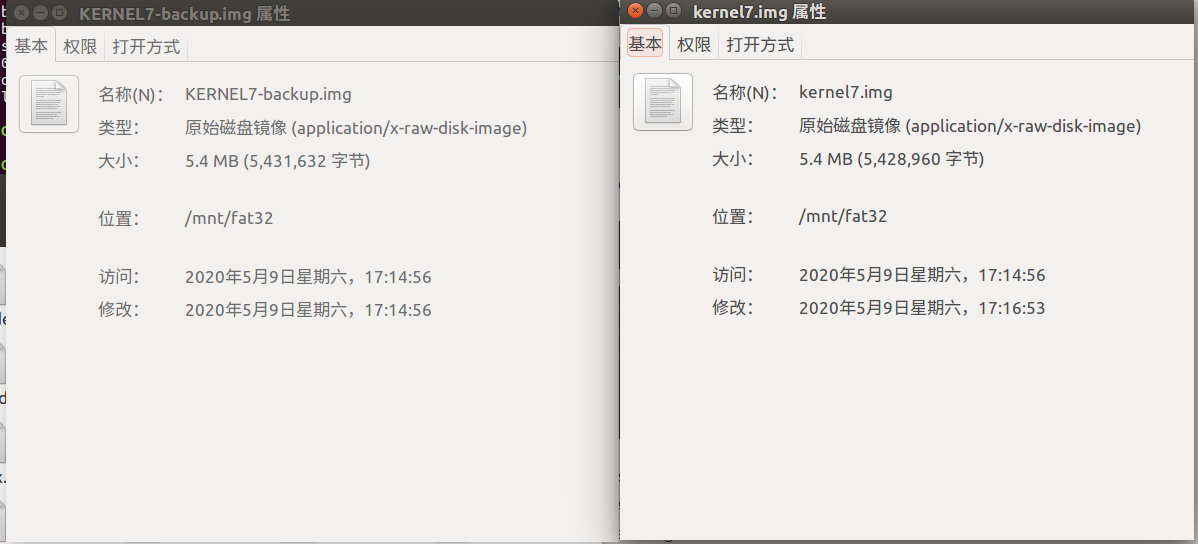
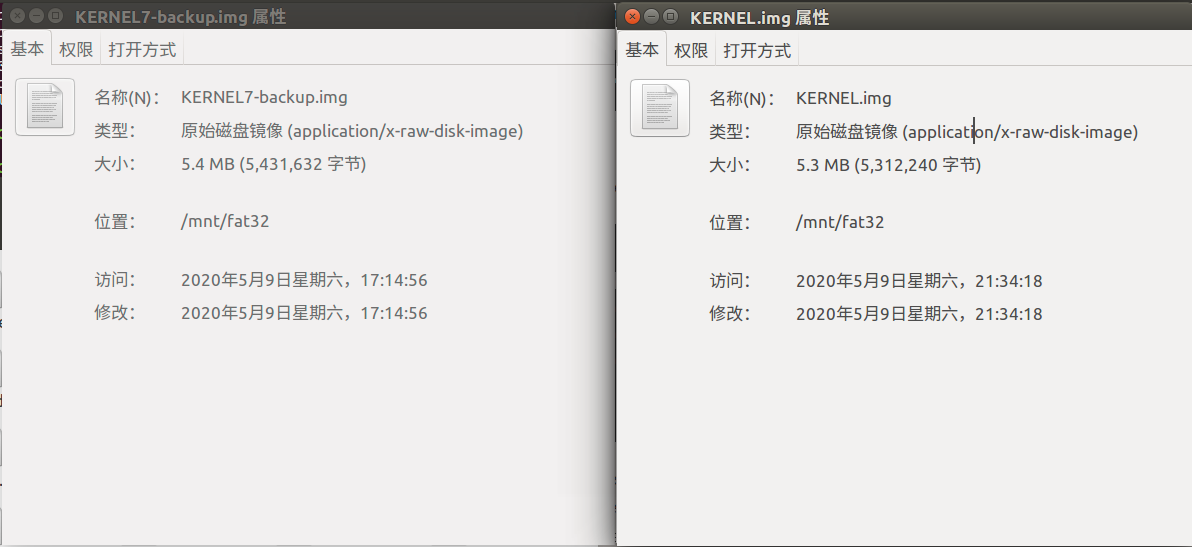
experiment 5

diff --git a/experiment_5/experiment5-构建目标系统.md b/experiment_5/experiment5-构建目标系统.md
@@ -76,32 +76,30 @@
 
 | 位置 | 内容 | 备注 | 操作 |
 | :-: | :-: | :-: | :-: |
--|NVME Support |NVME协议SSD支持|Y-> N
+-|SCSI device support | SCSI device support | SCSI设备支持|Y-> N
 -|Multiple devices driver support (RAID and LVM) |磁盘阵列支持 | Y -> N |
-|Network deivce support | PPP (point-to-point protocol) support| 点对点协议支持| Y -> N
 |Network deivce support|ATM drivers| ATM协议 用于路由交换|Y -> N
-|Network device support|ISDN support| 综合业务数字网| Y->N|
--|Universal TUN/TAP device driver support| 用于虚拟网卡 | Y -> N
+|Network device support|ISDN support| 综合业务数字网| Y->N
+|USB Network Adapters|Simple USB Network Links|简易USB网络连接| 
 -|FDDI driver support |光纤分布式数据接口 |Y -> N
 -|Open-Channel SSD target support 开放通道SSD | Y -> N
-
-input device support| Joystick interface| 游戏操纵杆接口 | Y-> N
 input device support|Joysticks/Gamepads |游戏操纵杆驱动| Y-> N
-input device support|Tablets |平板驱动 |Y-> N
 input device support|Touchscreens| 触控板驱动 |Y -> N
 |Character devices | Legacy (BSD) PTY support| 传统伪终端 | Y->N
 |Character devices|TPM Hardware Support|基于硬件的“可信赖平台模块” | Y -> N
-|Multimedia devices|Analog TV support | 模拟TV |Y -> N
+|Remote Controller support |Remote controller decoders | 模拟TV |Y -> N
+|Multimedia devices|Analog TVsupport | 模拟TV |Y -> N
 |Multimedia devices|Digital TVsupport | 数字TV |Y -> N
 |AM/FM radio receivers|transmitters support|广播传输 |Y -> N
 -|Virtio drivers| 虚拟化驱动 | Y -> N
 
+模块部分裁剪太多，在此略过。
 
 - 配置menuconfig后，输入`make ARCH=arm CROSS_COMPILE=arm-linux-gnueabihf- zImage modules dtbs -j4`对内核进行编译，-j4可对编译过程进行多核优化，加快编译时间。
 
   ![裁剪后make](./picture/裁剪后make.png)
 
-- 编译完成后得到新的kernel7.img，比较默认设置编译出的内核大小，裁剪后的内核比裁剪前减小了2672字节。二者大小差距不大的原因是第一次接触内核裁剪，对内核的裁剪较为保守，在充分理解各个选项的含义后可以做到更加优化的裁剪。
+- 编译完成后得到新的kernel7.img，比较默认设置编译出的内核大小，裁剪后的内核比裁剪前减小了119392字节。二者大小差距不大的原因是第一次接触内核裁剪，对内核的裁剪较为保守，在充分理解各个选项的含义后可以做到更加优化的裁剪。
 
    ![裁剪后大小](./picture/裁剪后大小.png)
 
